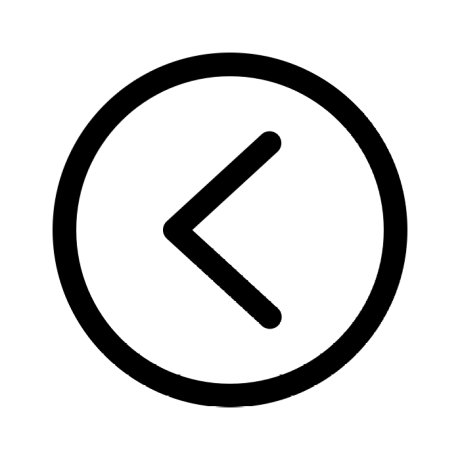
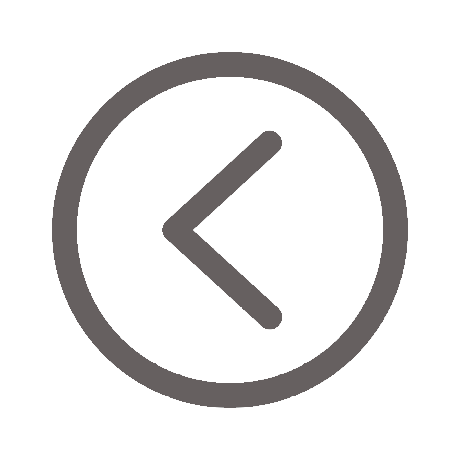
added back btn in playlistSongs

Changed region(s): [[0.0913, 0.0913, 0.913, 0.913], [0.3348, 0.2739, 0.6087, 0.7304]]

diff --git a/public/css/mobileScreen.css b/public/css/mobileScreen.css
@@ -47,7 +47,7 @@
         height: 70%;
         position: absolute;
         top: 17.5%;
-        width: 100%;
+        width: 95%;
         /* box-shadow: -60px 0 120px rgb(240, 240, 240) inset; */
         box-shadow: -60px 0 120px rgb(206, 206, 206) inset;
     }
@@ -262,17 +262,37 @@ padding-bottom: 0;
         display: none;
         margin-right: 0%;
     }
+    #iconProf {
+        width: 55%;
+    }
     #topMenuDropDown {
         z-index: 1;
-        margin-left: 50%;
+        margin-left: 10%;
+        margin-top: 10%;
+        display: none;
     }
     #topMenuDropDown p {
         display: none;
     }
-    #topMenuDropDown {
-        margin-top: 10%
-    }
+    
     /* playlistSongs page */
+    #goBackBtn {
+        width: 175%;
+        border-radius: 10px;
+        padding: 0.2%;
+    }
+    
+    #goBackBtn:hover {
+        background-color: #84fab0;
+    }
+    
+    #mainPlaylist a {
+        width: 7%;
+        align-self: flex-start;
+    }
+    #mainPlaylistInfo {
+        width: 75%;
+    }
     #mySongList {
         height: 69%;
     }

diff --git a/public/css/desktopScreen.css b/public/css/desktopScreen.css
@@ -178,8 +178,18 @@
     #searchNewPlaylist input {
         width: 77%;
     }
+    #topHeader {
+        padding-bottom: .2%;
+    }
     #topMenu {
         font-size: 2vh;
+    }
+    #user {
+        display: flex;
+        justify-content: flex-end;
+    }
+    #iconProf {
+        width: 6%;
     }
 
     #challengeUser {

diff --git a/view/playlistSongs.php b/view/playlistSongs.php
@@ -1,6 +1,6 @@
 <div id="mainPlaylist">
 <?php if ($mainPlaylist): $_SESSION['playlistId'] = $mainPlaylist['playlistId']?>
-    <img src="public/images/album2.png" id="mainPlaylistImg">
+    <img src="public/images/album2.png" id="mainPlaylistImg" title="Album icon">
     <div id="mainPlaylistInfo">
         <p class="darkGrey playlistNameText"><?= $mainPlaylist['playlistName']; ?></p>
         <p>by <?=$mainPlaylist['username'];?></p>
@@ -17,6 +17,11 @@
         </div>
         <?php include('playlistOptionsModal.php'); ?>
     </div>
+    <a href="index.php?action=showMyList" title="Go back to my list">
+        <!-- <div> -->
+            <img src="public/images/backArrow2.png" id="goBackBtn" title="Back button">
+        <!-- </div> -->
+    </a>
 </div>
 <?php endif; ?>
 
